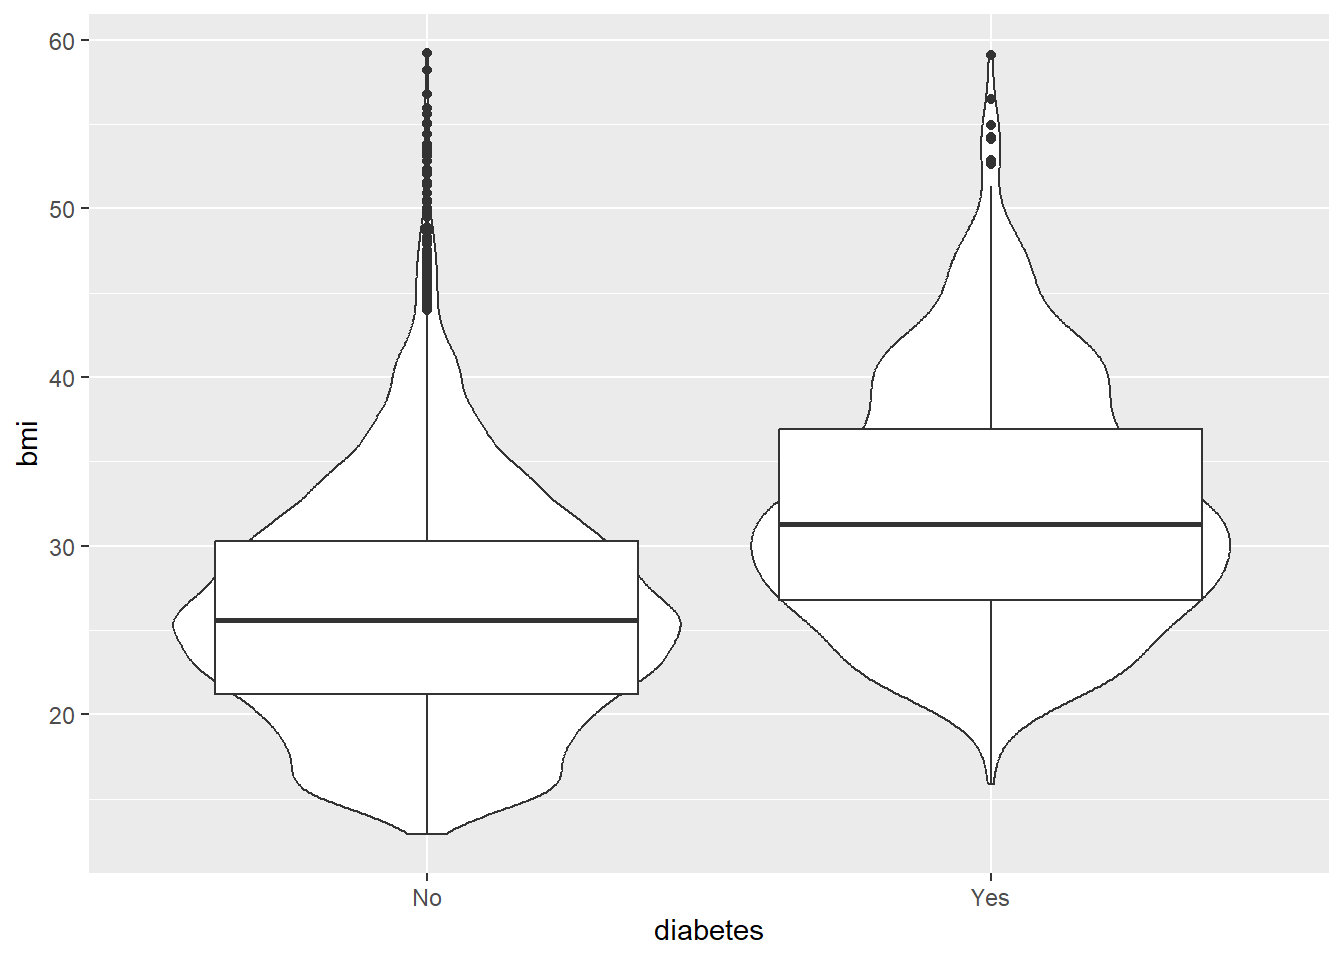
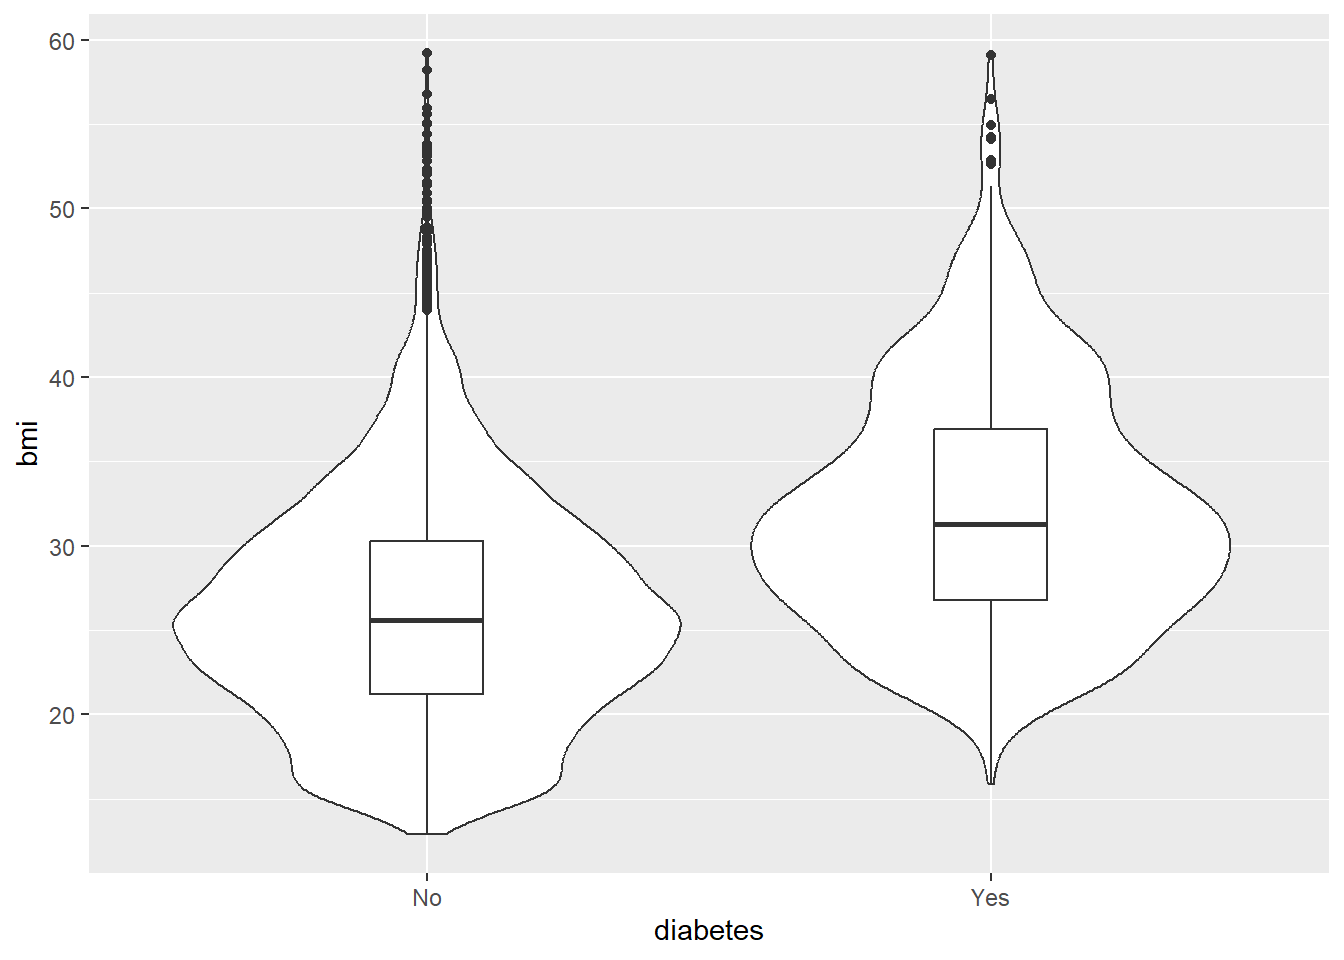
Made exercise 9.5

diff --git a/doc/learning.html b/doc/learning.html
@@ -342,17 +342,17 @@ code span.wa { color: #60a0b0; font-weight: bold; font-style: italic; } /* Warni
 <section id="one-variable-plots" class="level2">
 <h2 class="anchored" data-anchor-id="one-variable-plots">One variable plots</h2>
 <div class="cell">
-<div class="sourceCode cell-code" id="cb2"><pre class="sourceCode r code-with-copy"><code class="sourceCode r"><span id="cb2-1"><a href="#cb2-1" aria-hidden="true" tabindex="-1"></a><span class="fu">ggplot</span>(nhanes_small, <span class="fu">aes</span>(<span class="at">x=</span>bmi))<span class="sc">+</span></span>
-<span id="cb2-2"><a href="#cb2-2" aria-hidden="true" tabindex="-1"></a>  <span class="fu">geom_histogram</span>(<span class="at">na.rm=</span><span class="cn">TRUE</span>, <span class="at">bins =</span> <span class="dv">30</span>)</span></code><button title="Copy to Clipboard" class="code-copy-button"><i class="bi"></i></button></pre></div>
+<div class="sourceCode cell-code" id="cb2"><pre class="sourceCode r code-with-copy"><code class="sourceCode r"><span id="cb2-1"><a href="#cb2-1" aria-hidden="true" tabindex="-1"></a><span class="fu">ggplot</span>(nhanes_small, <span class="fu">aes</span>(<span class="at">x =</span> bmi)) <span class="sc">+</span></span>
+<span id="cb2-2"><a href="#cb2-2" aria-hidden="true" tabindex="-1"></a>  <span class="fu">geom_histogram</span>(<span class="at">na.rm =</span> <span class="cn">TRUE</span>, <span class="at">bins =</span> <span class="dv">30</span>)</span></code><button title="Copy to Clipboard" class="code-copy-button"><i class="bi"></i></button></pre></div>
 <div class="cell-output-display">
 <p><img src="learning_files/figure-html/unnamed-chunk-2-1.png" class="img-fluid" width="672"></p>
 </div>
 </div>
 <div class="cell">
 <div class="sourceCode cell-code" id="cb3"><pre class="sourceCode r code-with-copy"><code class="sourceCode r"><span id="cb3-1"><a href="#cb3-1" aria-hidden="true" tabindex="-1"></a>nhanes_small <span class="sc">%&gt;%</span></span>
-<span id="cb3-2"><a href="#cb3-2" aria-hidden="true" tabindex="-1"></a>  <span class="fu">filter</span>(bmi<span class="sc">&lt;=</span> <span class="dv">60</span>)<span class="sc">%&gt;%</span></span>
-<span id="cb3-3"><a href="#cb3-3" aria-hidden="true" tabindex="-1"></a>  <span class="fu">ggplot</span>(<span class="fu">aes</span>(<span class="at">x=</span>bmi))<span class="sc">+</span></span>
-<span id="cb3-4"><a href="#cb3-4" aria-hidden="true" tabindex="-1"></a>  <span class="fu">geom_histogram</span>(<span class="at">na.rm=</span><span class="cn">TRUE</span>, <span class="at">bins =</span> <span class="dv">30</span>)</span></code><button title="Copy to Clipboard" class="code-copy-button"><i class="bi"></i></button></pre></div>
+<span id="cb3-2"><a href="#cb3-2" aria-hidden="true" tabindex="-1"></a>  <span class="fu">filter</span>(bmi <span class="sc">&lt;=</span> <span class="dv">60</span>) <span class="sc">%&gt;%</span></span>
+<span id="cb3-3"><a href="#cb3-3" aria-hidden="true" tabindex="-1"></a>  <span class="fu">ggplot</span>(<span class="fu">aes</span>(<span class="at">x =</span> bmi)) <span class="sc">+</span></span>
+<span id="cb3-4"><a href="#cb3-4" aria-hidden="true" tabindex="-1"></a>  <span class="fu">geom_histogram</span>(<span class="at">na.rm =</span> <span class="cn">TRUE</span>, <span class="at">bins =</span> <span class="dv">30</span>)</span></code><button title="Copy to Clipboard" class="code-copy-button"><i class="bi"></i></button></pre></div>
 <div class="cell-output-display">
 <div class="quarto-figure quarto-figure-center">
 <figure class="figure">
@@ -367,23 +367,23 @@ code span.wa { color: #60a0b0; font-weight: bold; font-style: italic; } /* Warni
 <section id="discrete-variable" class="level2">
 <h2 class="anchored" data-anchor-id="discrete-variable">Discrete variable</h2>
 <div class="cell">
-<div class="sourceCode cell-code" id="cb4"><pre class="sourceCode r code-with-copy"><code class="sourceCode r"><span id="cb4-1"><a href="#cb4-1" aria-hidden="true" tabindex="-1"></a>nhanes_small <span class="sc">%&gt;%</span> </span>
-<span id="cb4-2"><a href="#cb4-2" aria-hidden="true" tabindex="-1"></a>  <span class="fu">ggplot</span>(<span class="fu">aes</span>(<span class="at">x =</span> education))<span class="sc">+</span></span>
+<div class="sourceCode cell-code" id="cb4"><pre class="sourceCode r code-with-copy"><code class="sourceCode r"><span id="cb4-1"><a href="#cb4-1" aria-hidden="true" tabindex="-1"></a>nhanes_small <span class="sc">%&gt;%</span></span>
+<span id="cb4-2"><a href="#cb4-2" aria-hidden="true" tabindex="-1"></a>  <span class="fu">ggplot</span>(<span class="fu">aes</span>(<span class="at">x =</span> education)) <span class="sc">+</span></span>
 <span id="cb4-3"><a href="#cb4-3" aria-hidden="true" tabindex="-1"></a>  <span class="fu">geom_bar</span>()</span></code><button title="Copy to Clipboard" class="code-copy-button"><i class="bi"></i></button></pre></div>
 <div class="cell-output-display">
 <p><img src="learning_files/figure-html/unnamed-chunk-4-1.png" class="img-fluid" width="672"></p>
 </div>
 </div>
 <div>
-<div class="sourceCode cell-code" id="cb5"><pre class="sourceCode r code-with-copy"><code class="sourceCode r"><span id="cb5-1"><a href="#cb5-1" aria-hidden="true" tabindex="-1"></a>nhanes_small <span class="sc">%&gt;%</span> </span>
-<span id="cb5-2"><a href="#cb5-2" aria-hidden="true" tabindex="-1"></a>  <span class="fu">filter</span>(<span class="sc">!</span><span class="fu">is.na</span>(diabetes)) <span class="sc">%&gt;%</span> </span>
-<span id="cb5-3"><a href="#cb5-3" aria-hidden="true" tabindex="-1"></a>  <span class="fu">ggplot</span>(<span class="fu">aes</span>(<span class="at">x=</span>diabetes))<span class="sc">+</span></span>
+<div class="sourceCode cell-code" id="cb5"><pre class="sourceCode r code-with-copy"><code class="sourceCode r"><span id="cb5-1"><a href="#cb5-1" aria-hidden="true" tabindex="-1"></a>nhanes_small <span class="sc">%&gt;%</span></span>
+<span id="cb5-2"><a href="#cb5-2" aria-hidden="true" tabindex="-1"></a>  <span class="fu">filter</span>(<span class="sc">!</span><span class="fu">is.na</span>(diabetes)) <span class="sc">%&gt;%</span></span>
+<span id="cb5-3"><a href="#cb5-3" aria-hidden="true" tabindex="-1"></a>  <span class="fu">ggplot</span>(<span class="fu">aes</span>(<span class="at">x =</span> diabetes)) <span class="sc">+</span></span>
 <span id="cb5-4"><a href="#cb5-4" aria-hidden="true" tabindex="-1"></a>  <span class="fu">geom_bar</span>()</span>
 <span id="cb5-5"><a href="#cb5-5" aria-hidden="true" tabindex="-1"></a></span>
 <span id="cb5-6"><a href="#cb5-6" aria-hidden="true" tabindex="-1"></a></span>
-<span id="cb5-7"><a href="#cb5-7" aria-hidden="true" tabindex="-1"></a>nhanes_small <span class="sc">%&gt;%</span> </span>
-<span id="cb5-8"><a href="#cb5-8" aria-hidden="true" tabindex="-1"></a>  <span class="fu">filter</span>(<span class="sc">!</span><span class="fu">is.na</span>(education)) <span class="sc">%&gt;%</span> </span>
-<span id="cb5-9"><a href="#cb5-9" aria-hidden="true" tabindex="-1"></a>  <span class="fu">ggplot</span>(<span class="fu">aes</span>(<span class="at">x=</span>education))<span class="sc">+</span></span>
+<span id="cb5-7"><a href="#cb5-7" aria-hidden="true" tabindex="-1"></a>nhanes_small <span class="sc">%&gt;%</span></span>
+<span id="cb5-8"><a href="#cb5-8" aria-hidden="true" tabindex="-1"></a>  <span class="fu">filter</span>(<span class="sc">!</span><span class="fu">is.na</span>(education)) <span class="sc">%&gt;%</span></span>
+<span id="cb5-9"><a href="#cb5-9" aria-hidden="true" tabindex="-1"></a>  <span class="fu">ggplot</span>(<span class="fu">aes</span>(<span class="at">x =</span> education)) <span class="sc">+</span></span>
 <span id="cb5-10"><a href="#cb5-10" aria-hidden="true" tabindex="-1"></a>  <span class="fu">geom_bar</span>()</span></code><button title="Copy to Clipboard" class="code-copy-button"><i class="bi"></i></button></pre></div>
 <div id="fig-diabetes-education" class="cell quarto-layout-panel">
 <figure class="figure">
@@ -415,10 +415,10 @@ code span.wa { color: #60a0b0; font-weight: bold; font-style: italic; } /* Warni
 <section id="plotting-2-continuous-variables" class="level3">
 <h3 class="anchored" data-anchor-id="plotting-2-continuous-variables">Plotting 2 continuous variables</h3>
 <div class="cell">
-<div class="sourceCode cell-code" id="cb6"><pre class="sourceCode r code-with-copy"><code class="sourceCode r"><span id="cb6-1"><a href="#cb6-1" aria-hidden="true" tabindex="-1"></a>nhanes_small <span class="sc">%&gt;%</span> </span>
-<span id="cb6-2"><a href="#cb6-2" aria-hidden="true" tabindex="-1"></a>  <span class="fu">ggplot</span>(<span class="fu">aes</span>(<span class="at">x =</span> bmi, <span class="at">y =</span> bp_sys_ave ))<span class="sc">+</span></span>
-<span id="cb6-3"><a href="#cb6-3" aria-hidden="true" tabindex="-1"></a>  <span class="fu">geom_hex</span>(<span class="at">na.rm=</span><span class="cn">TRUE</span>)<span class="sc">+</span></span>
-<span id="cb6-4"><a href="#cb6-4" aria-hidden="true" tabindex="-1"></a>  <span class="fu">geom_smooth</span>(<span class="at">na.rm=</span><span class="cn">TRUE</span>)</span></code><button title="Copy to Clipboard" class="code-copy-button"><i class="bi"></i></button></pre></div>
+<div class="sourceCode cell-code" id="cb6"><pre class="sourceCode r code-with-copy"><code class="sourceCode r"><span id="cb6-1"><a href="#cb6-1" aria-hidden="true" tabindex="-1"></a>nhanes_small <span class="sc">%&gt;%</span></span>
+<span id="cb6-2"><a href="#cb6-2" aria-hidden="true" tabindex="-1"></a>  <span class="fu">ggplot</span>(<span class="fu">aes</span>(<span class="at">x =</span> bmi, <span class="at">y =</span> bp_sys_ave)) <span class="sc">+</span></span>
+<span id="cb6-3"><a href="#cb6-3" aria-hidden="true" tabindex="-1"></a>  <span class="fu">geom_hex</span>(<span class="at">na.rm =</span> <span class="cn">TRUE</span>) <span class="sc">+</span></span>
+<span id="cb6-4"><a href="#cb6-4" aria-hidden="true" tabindex="-1"></a>  <span class="fu">geom_smooth</span>(<span class="at">na.rm =</span> <span class="cn">TRUE</span>)</span></code><button title="Copy to Clipboard" class="code-copy-button"><i class="bi"></i></button></pre></div>
 <div class="cell-output cell-output-stderr">
 <pre><code>`geom_smooth()` using method = 'gam' and formula = 'y ~ s(x, bs = "cs")'</code></pre>
 </div>
@@ -430,10 +430,10 @@ code span.wa { color: #60a0b0; font-weight: bold; font-style: italic; } /* Warni
 <section id="two-discrete-variables" class="level3">
 <h3 class="anchored" data-anchor-id="two-discrete-variables">Two discrete variables</h3>
 <div class="cell">
-<div class="sourceCode cell-code" id="cb8"><pre class="sourceCode r code-with-copy"><code class="sourceCode r"><span id="cb8-1"><a href="#cb8-1" aria-hidden="true" tabindex="-1"></a>nhanes_small <span class="sc">%&gt;%</span> </span>
-<span id="cb8-2"><a href="#cb8-2" aria-hidden="true" tabindex="-1"></a>  <span class="fu">filter</span>(<span class="sc">!</span><span class="fu">is.na</span>(education),<span class="sc">!</span><span class="fu">is.na</span>(diabetes)) <span class="sc">%&gt;%</span> </span>
-<span id="cb8-3"><a href="#cb8-3" aria-hidden="true" tabindex="-1"></a>  <span class="fu">ggplot</span>(<span class="fu">aes</span>(<span class="at">x=</span>diabetes, <span class="at">fill=</span> education))<span class="sc">+</span></span>
-<span id="cb8-4"><a href="#cb8-4" aria-hidden="true" tabindex="-1"></a>  <span class="fu">geom_bar</span>(<span class="at">position=</span><span class="fu">position_dodge</span>())</span></code><button title="Copy to Clipboard" class="code-copy-button"><i class="bi"></i></button></pre></div>
+<div class="sourceCode cell-code" id="cb8"><pre class="sourceCode r code-with-copy"><code class="sourceCode r"><span id="cb8-1"><a href="#cb8-1" aria-hidden="true" tabindex="-1"></a>nhanes_small <span class="sc">%&gt;%</span></span>
+<span id="cb8-2"><a href="#cb8-2" aria-hidden="true" tabindex="-1"></a>  <span class="fu">filter</span>(<span class="sc">!</span><span class="fu">is.na</span>(education), <span class="sc">!</span><span class="fu">is.na</span>(diabetes)) <span class="sc">%&gt;%</span></span>
+<span id="cb8-3"><a href="#cb8-3" aria-hidden="true" tabindex="-1"></a>  <span class="fu">ggplot</span>(<span class="fu">aes</span>(<span class="at">x =</span> diabetes, <span class="at">fill =</span> education)) <span class="sc">+</span></span>
+<span id="cb8-4"><a href="#cb8-4" aria-hidden="true" tabindex="-1"></a>  <span class="fu">geom_bar</span>(<span class="at">position =</span> <span class="fu">position_dodge</span>())</span></code><button title="Copy to Clipboard" class="code-copy-button"><i class="bi"></i></button></pre></div>
 <div class="cell-output-display">
 <p><img src="learning_files/figure-html/unnamed-chunk-7-1.png" class="img-fluid" width="672"></p>
 </div>
@@ -443,15 +443,95 @@ code span.wa { color: #60a0b0; font-weight: bold; font-style: italic; } /* Warni
 <section id="discrete-and-continuous-variables" class="level2">
 <h2 class="anchored" data-anchor-id="discrete-and-continuous-variables">Discrete and continuous variables</h2>
 <div class="cell">
-<div class="sourceCode cell-code" id="cb9"><pre class="sourceCode r code-with-copy"><code class="sourceCode r"><span id="cb9-1"><a href="#cb9-1" aria-hidden="true" tabindex="-1"></a>nhanes_small <span class="sc">%&gt;%</span> </span>
-<span id="cb9-2"><a href="#cb9-2" aria-hidden="true" tabindex="-1"></a>  <span class="fu">filter</span>(<span class="sc">!</span><span class="fu">is.na</span>(diabetes), bmi<span class="sc">&lt;=</span> <span class="dv">60</span>) <span class="sc">%&gt;%</span> </span>
-<span id="cb9-3"><a href="#cb9-3" aria-hidden="true" tabindex="-1"></a>  <span class="fu">ggplot</span>(<span class="fu">aes</span>(<span class="at">x =</span> diabetes, <span class="at">y =</span>bmi))<span class="sc">+</span></span>
-<span id="cb9-4"><a href="#cb9-4" aria-hidden="true" tabindex="-1"></a>  <span class="fu">geom_violin</span>(<span class="at">na.rm=</span><span class="cn">TRUE</span>)<span class="sc">+</span></span>
-<span id="cb9-5"><a href="#cb9-5" aria-hidden="true" tabindex="-1"></a>  <span class="fu">geom_boxplot</span>(<span class="at">na.rm=</span><span class="cn">TRUE</span>)</span></code><button title="Copy to Clipboard" class="code-copy-button"><i class="bi"></i></button></pre></div>
+<div class="sourceCode cell-code" id="cb9"><pre class="sourceCode r code-with-copy"><code class="sourceCode r"><span id="cb9-1"><a href="#cb9-1" aria-hidden="true" tabindex="-1"></a>nhanes_small <span class="sc">%&gt;%</span></span>
+<span id="cb9-2"><a href="#cb9-2" aria-hidden="true" tabindex="-1"></a>  <span class="fu">filter</span>(<span class="sc">!</span><span class="fu">is.na</span>(diabetes), bmi <span class="sc">&lt;=</span> <span class="dv">60</span>) <span class="sc">%&gt;%</span></span>
+<span id="cb9-3"><a href="#cb9-3" aria-hidden="true" tabindex="-1"></a>  <span class="fu">ggplot</span>(<span class="fu">aes</span>(<span class="at">x =</span> diabetes, <span class="at">y =</span> bmi)) <span class="sc">+</span></span>
+<span id="cb9-4"><a href="#cb9-4" aria-hidden="true" tabindex="-1"></a>  <span class="fu">geom_violin</span>(<span class="at">na.rm =</span> <span class="cn">TRUE</span>) <span class="sc">+</span></span>
+<span id="cb9-5"><a href="#cb9-5" aria-hidden="true" tabindex="-1"></a>  <span class="fu">geom_boxplot</span>(<span class="at">na.rm =</span> <span class="cn">TRUE</span>, <span class="at">width =</span> <span class="fl">0.2</span>)</span></code><button title="Copy to Clipboard" class="code-copy-button"><i class="bi"></i></button></pre></div>
 <div class="cell-output-display">
 <p><img src="learning_files/figure-html/unnamed-chunk-8-1.png" class="img-fluid" width="672"></p>
 </div>
 </div>
+</section>
+<section id="exercise-to-make-plots-with-one-or-two-variables" class="level2">
+<h2 class="anchored" data-anchor-id="exercise-to-make-plots-with-one-or-two-variables">Exercise to make plots with one or two variables</h2>
+<section id="first-exercise" class="level3">
+<h3 class="anchored" data-anchor-id="first-exercise">First exercise</h3>
+<div class="cell">
+<div class="sourceCode cell-code" id="cb10"><pre class="sourceCode r code-with-copy"><code class="sourceCode r"><span id="cb10-1"><a href="#cb10-1" aria-hidden="true" tabindex="-1"></a><span class="fu">library</span>(NHANES)</span>
+<span id="cb10-2"><a href="#cb10-2" aria-hidden="true" tabindex="-1"></a>nhanes_exercise <span class="ot">&lt;-</span> NHANES <span class="sc">%&gt;%</span></span>
+<span id="cb10-3"><a href="#cb10-3" aria-hidden="true" tabindex="-1"></a>  <span class="fu">rename_with</span>(snakecase<span class="sc">::</span>to_snake_case) <span class="sc">%&gt;%</span></span>
+<span id="cb10-4"><a href="#cb10-4" aria-hidden="true" tabindex="-1"></a>  <span class="fu">rename</span>(<span class="at">sex =</span> gender)</span></code><button title="Copy to Clipboard" class="code-copy-button"><i class="bi"></i></button></pre></div>
+</div>
+</section>
+<section id="second-exercise" class="level3">
+<h3 class="anchored" data-anchor-id="second-exercise">Second exercise</h3>
+<div>
+<div class="sourceCode cell-code" id="cb11"><pre class="sourceCode r code-with-copy"><code class="sourceCode r"><span id="cb11-1"><a href="#cb11-1" aria-hidden="true" tabindex="-1"></a><span class="co"># Distribution of age</span></span>
+<span id="cb11-2"><a href="#cb11-2" aria-hidden="true" tabindex="-1"></a><span class="fu">ggplot</span>(nhanes_exercise, <span class="fu">aes</span>(<span class="at">x =</span> age)) <span class="sc">+</span></span>
+<span id="cb11-3"><a href="#cb11-3" aria-hidden="true" tabindex="-1"></a>    <span class="fu">geom_density</span>(<span class="at">na.rm =</span><span class="cn">TRUE</span>)</span>
+<span id="cb11-4"><a href="#cb11-4" aria-hidden="true" tabindex="-1"></a></span>
+<span id="cb11-5"><a href="#cb11-5" aria-hidden="true" tabindex="-1"></a><span class="co"># Distribution of age at diabetes diagnosis</span></span>
+<span id="cb11-6"><a href="#cb11-6" aria-hidden="true" tabindex="-1"></a><span class="fu">ggplot</span>(nhanes_exercise, <span class="fu">aes</span>(<span class="at">x=</span> diabetes_age))<span class="sc">+</span></span>
+<span id="cb11-7"><a href="#cb11-7" aria-hidden="true" tabindex="-1"></a>  <span class="fu">geom_density</span>(<span class="at">na.rm=</span><span class="cn">TRUE</span>)</span></code><button title="Copy to Clipboard" class="code-copy-button"><i class="bi"></i></button></pre></div>
+<div id="fig-exercise" class="cell quarto-layout-panel">
+<figure class="figure">
+<div class="quarto-layout-row quarto-layout-valign-top">
+<div class="cell-output-display quarto-layout-cell quarto-layout-cell-subref" style="flex-basis: 50.0%;justify-content: center;">
+<div id="fig-exercise-1" class="quarto-figure quarto-figure-center anchored">
+<figure class="figure">
+<p><img src="learning_files/figure-html/fig-exercise-1.png" class="img-fluid figure-img" data-ref-parent="fig-exercise" width="672"></p>
+<p></p><figcaption class="figure-caption">(a) Age distribution</figcaption><p></p>
+</figure>
+</div>
+</div>
+<div class="cell-output-display quarto-layout-cell quarto-layout-cell-subref" style="flex-basis: 50.0%;justify-content: center;">
+<div id="fig-exercise-2" class="quarto-figure quarto-figure-center anchored">
+<figure class="figure">
+<p><img src="learning_files/figure-html/fig-exercise-2.png" class="img-fluid figure-img" data-ref-parent="fig-exercise" width="672"></p>
+<p></p><figcaption class="figure-caption">(b) Diabetes age distribution</figcaption><p></p>
+</figure>
+</div>
+</div>
+</div>
+<p></p><figcaption class="figure-caption">Figure&nbsp;3: Distribution of age and diabetes age</figcaption><p></p>
+</figure>
+</div>
+</div>
+</section>
+<section id="third-exercise" class="level3">
+<h3 class="anchored" data-anchor-id="third-exercise">Third exercise</h3>
+<div class="cell">
+<div class="sourceCode cell-code" id="cb12"><pre class="sourceCode r code-with-copy"><code class="sourceCode r"><span id="cb12-1"><a href="#cb12-1" aria-hidden="true" tabindex="-1"></a>nhanes_exercise <span class="sc">%&gt;%</span> </span>
+<span id="cb12-2"><a href="#cb12-2" aria-hidden="true" tabindex="-1"></a>  <span class="fu">filter</span>(age<span class="sc">&gt;=</span><span class="dv">20</span>, <span class="sc">!</span><span class="fu">is.na</span>(smoke_now)) <span class="sc">%&gt;%</span> </span>
+<span id="cb12-3"><a href="#cb12-3" aria-hidden="true" tabindex="-1"></a>  <span class="fu">ggplot</span>(<span class="fu">aes</span>(<span class="at">x=</span>smoke_now))<span class="sc">+</span></span>
+<span id="cb12-4"><a href="#cb12-4" aria-hidden="true" tabindex="-1"></a>  <span class="fu">geom_bar</span>()</span></code><button title="Copy to Clipboard" class="code-copy-button"><i class="bi"></i></button></pre></div>
+<div class="cell-output-display">
+<div id="fig-smoke-exercise" class="quarto-figure quarto-figure-center anchored">
+<figure class="figure">
+<p><img src="learning_files/figure-html/fig-smoke-exercise-1.png" class="img-fluid figure-img" width="672"></p>
+<p></p><figcaption class="figure-caption">Figure&nbsp;4: How many people smoke?</figcaption><p></p>
+</figure>
+</div>
+</div>
+</div>
+</section>
+<section id="fourth-exercise" class="level3">
+<h3 class="anchored" data-anchor-id="fourth-exercise">Fourth exercise</h3>
+<div class="cell">
+<div class="sourceCode cell-code" id="cb13"><pre class="sourceCode r code-with-copy"><code class="sourceCode r"><span id="cb13-1"><a href="#cb13-1" aria-hidden="true" tabindex="-1"></a>nhanes_exercise <span class="sc">%&gt;%</span> </span>
+<span id="cb13-2"><a href="#cb13-2" aria-hidden="true" tabindex="-1"></a>  <span class="fu">mutate</span>(<span class="at">mean_arterial_pressure =</span> (bp_sys_ave <span class="sc">+</span> (<span class="dv">2</span><span class="sc">*</span>bp_dia_ave)<span class="sc">/</span><span class="dv">3</span>)) <span class="sc">%&gt;%</span> </span>
+<span id="cb13-3"><a href="#cb13-3" aria-hidden="true" tabindex="-1"></a>  <span class="fu">ggplot</span>(<span class="fu">aes</span>(<span class="at">x=</span>bmi, <span class="at">y =</span> mean_arterial_pressure))<span class="sc">+</span></span>
+<span id="cb13-4"><a href="#cb13-4" aria-hidden="true" tabindex="-1"></a>  <span class="fu">geom_hex</span>(<span class="at">na.rm=</span><span class="cn">TRUE</span>)<span class="sc">+</span></span>
+<span id="cb13-5"><a href="#cb13-5" aria-hidden="true" tabindex="-1"></a>  <span class="fu">geom_smooth</span>(<span class="at">na.rm=</span><span class="cn">TRUE</span>)</span></code><button title="Copy to Clipboard" class="code-copy-button"><i class="bi"></i></button></pre></div>
+<div class="cell-output cell-output-stderr">
+<pre><code>`geom_smooth()` using method = 'gam' and formula = 'y ~ s(x, bs = "cs")'</code></pre>
+</div>
+<div class="cell-output-display">
+<p><img src="learning_files/figure-html/unnamed-chunk-12-1.png" class="img-fluid" width="672"></p>
+</div>
+</div>
+</section>
 </section>
 </section>
 
